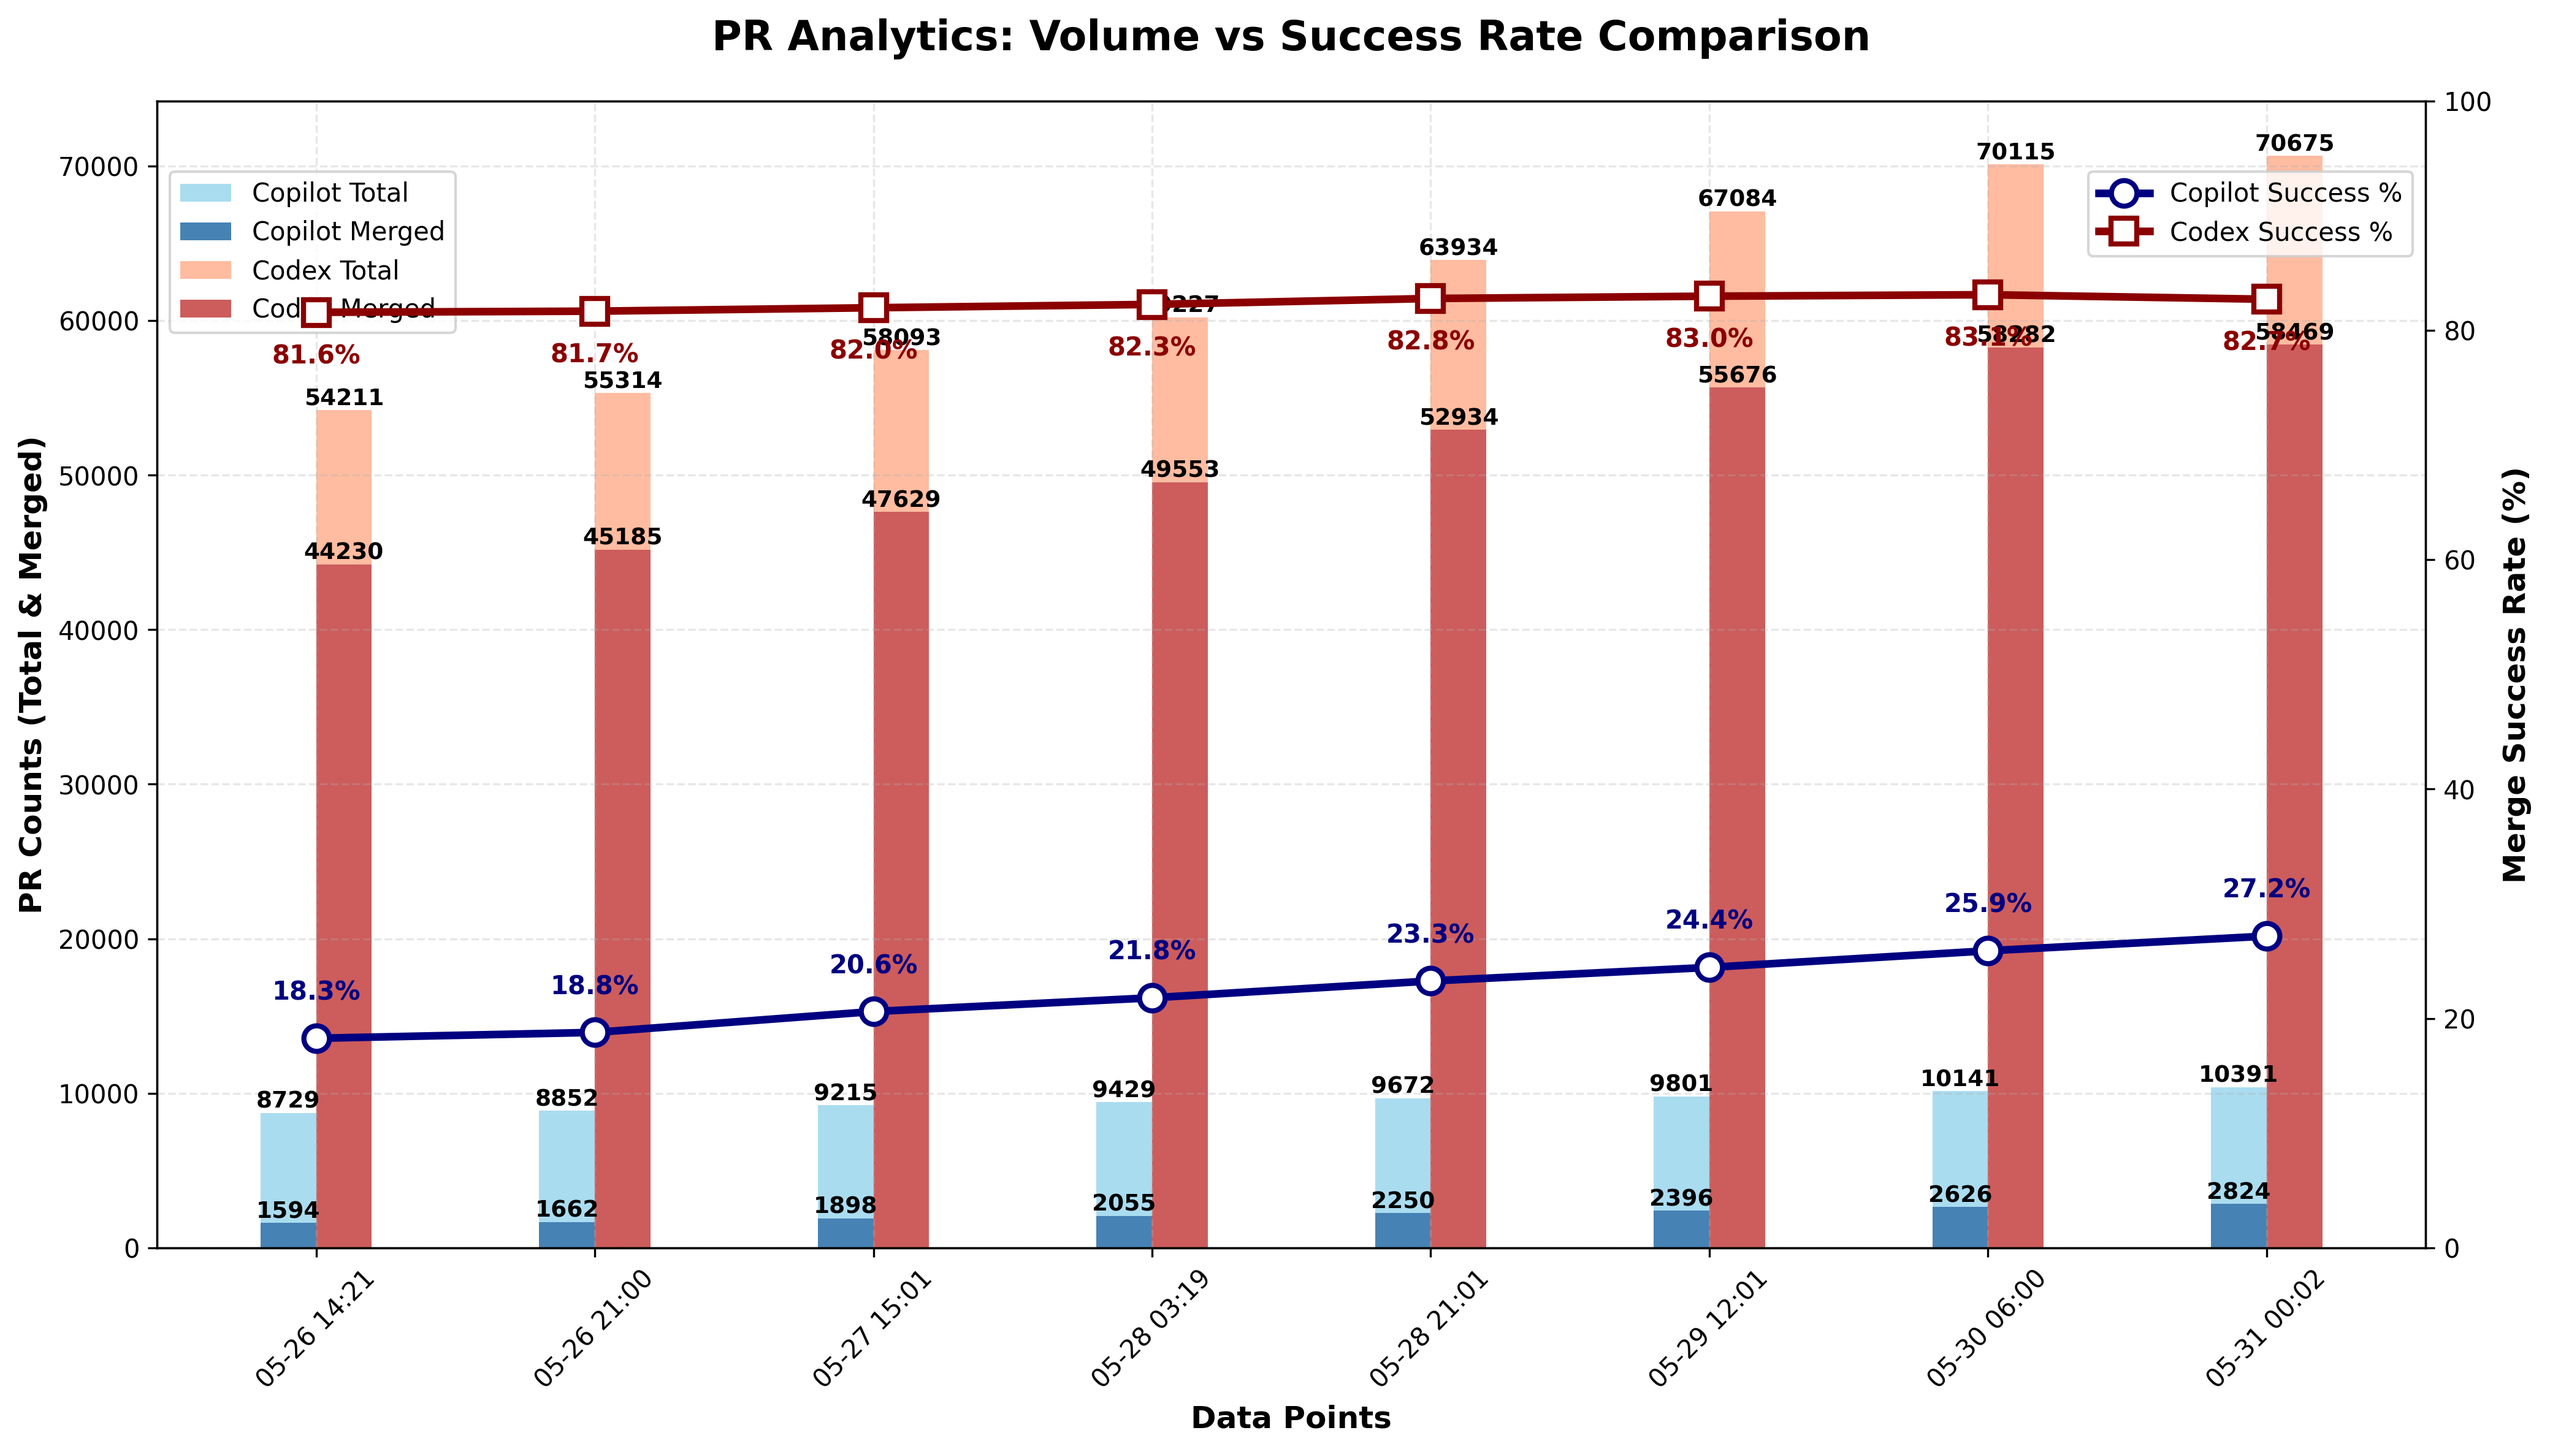
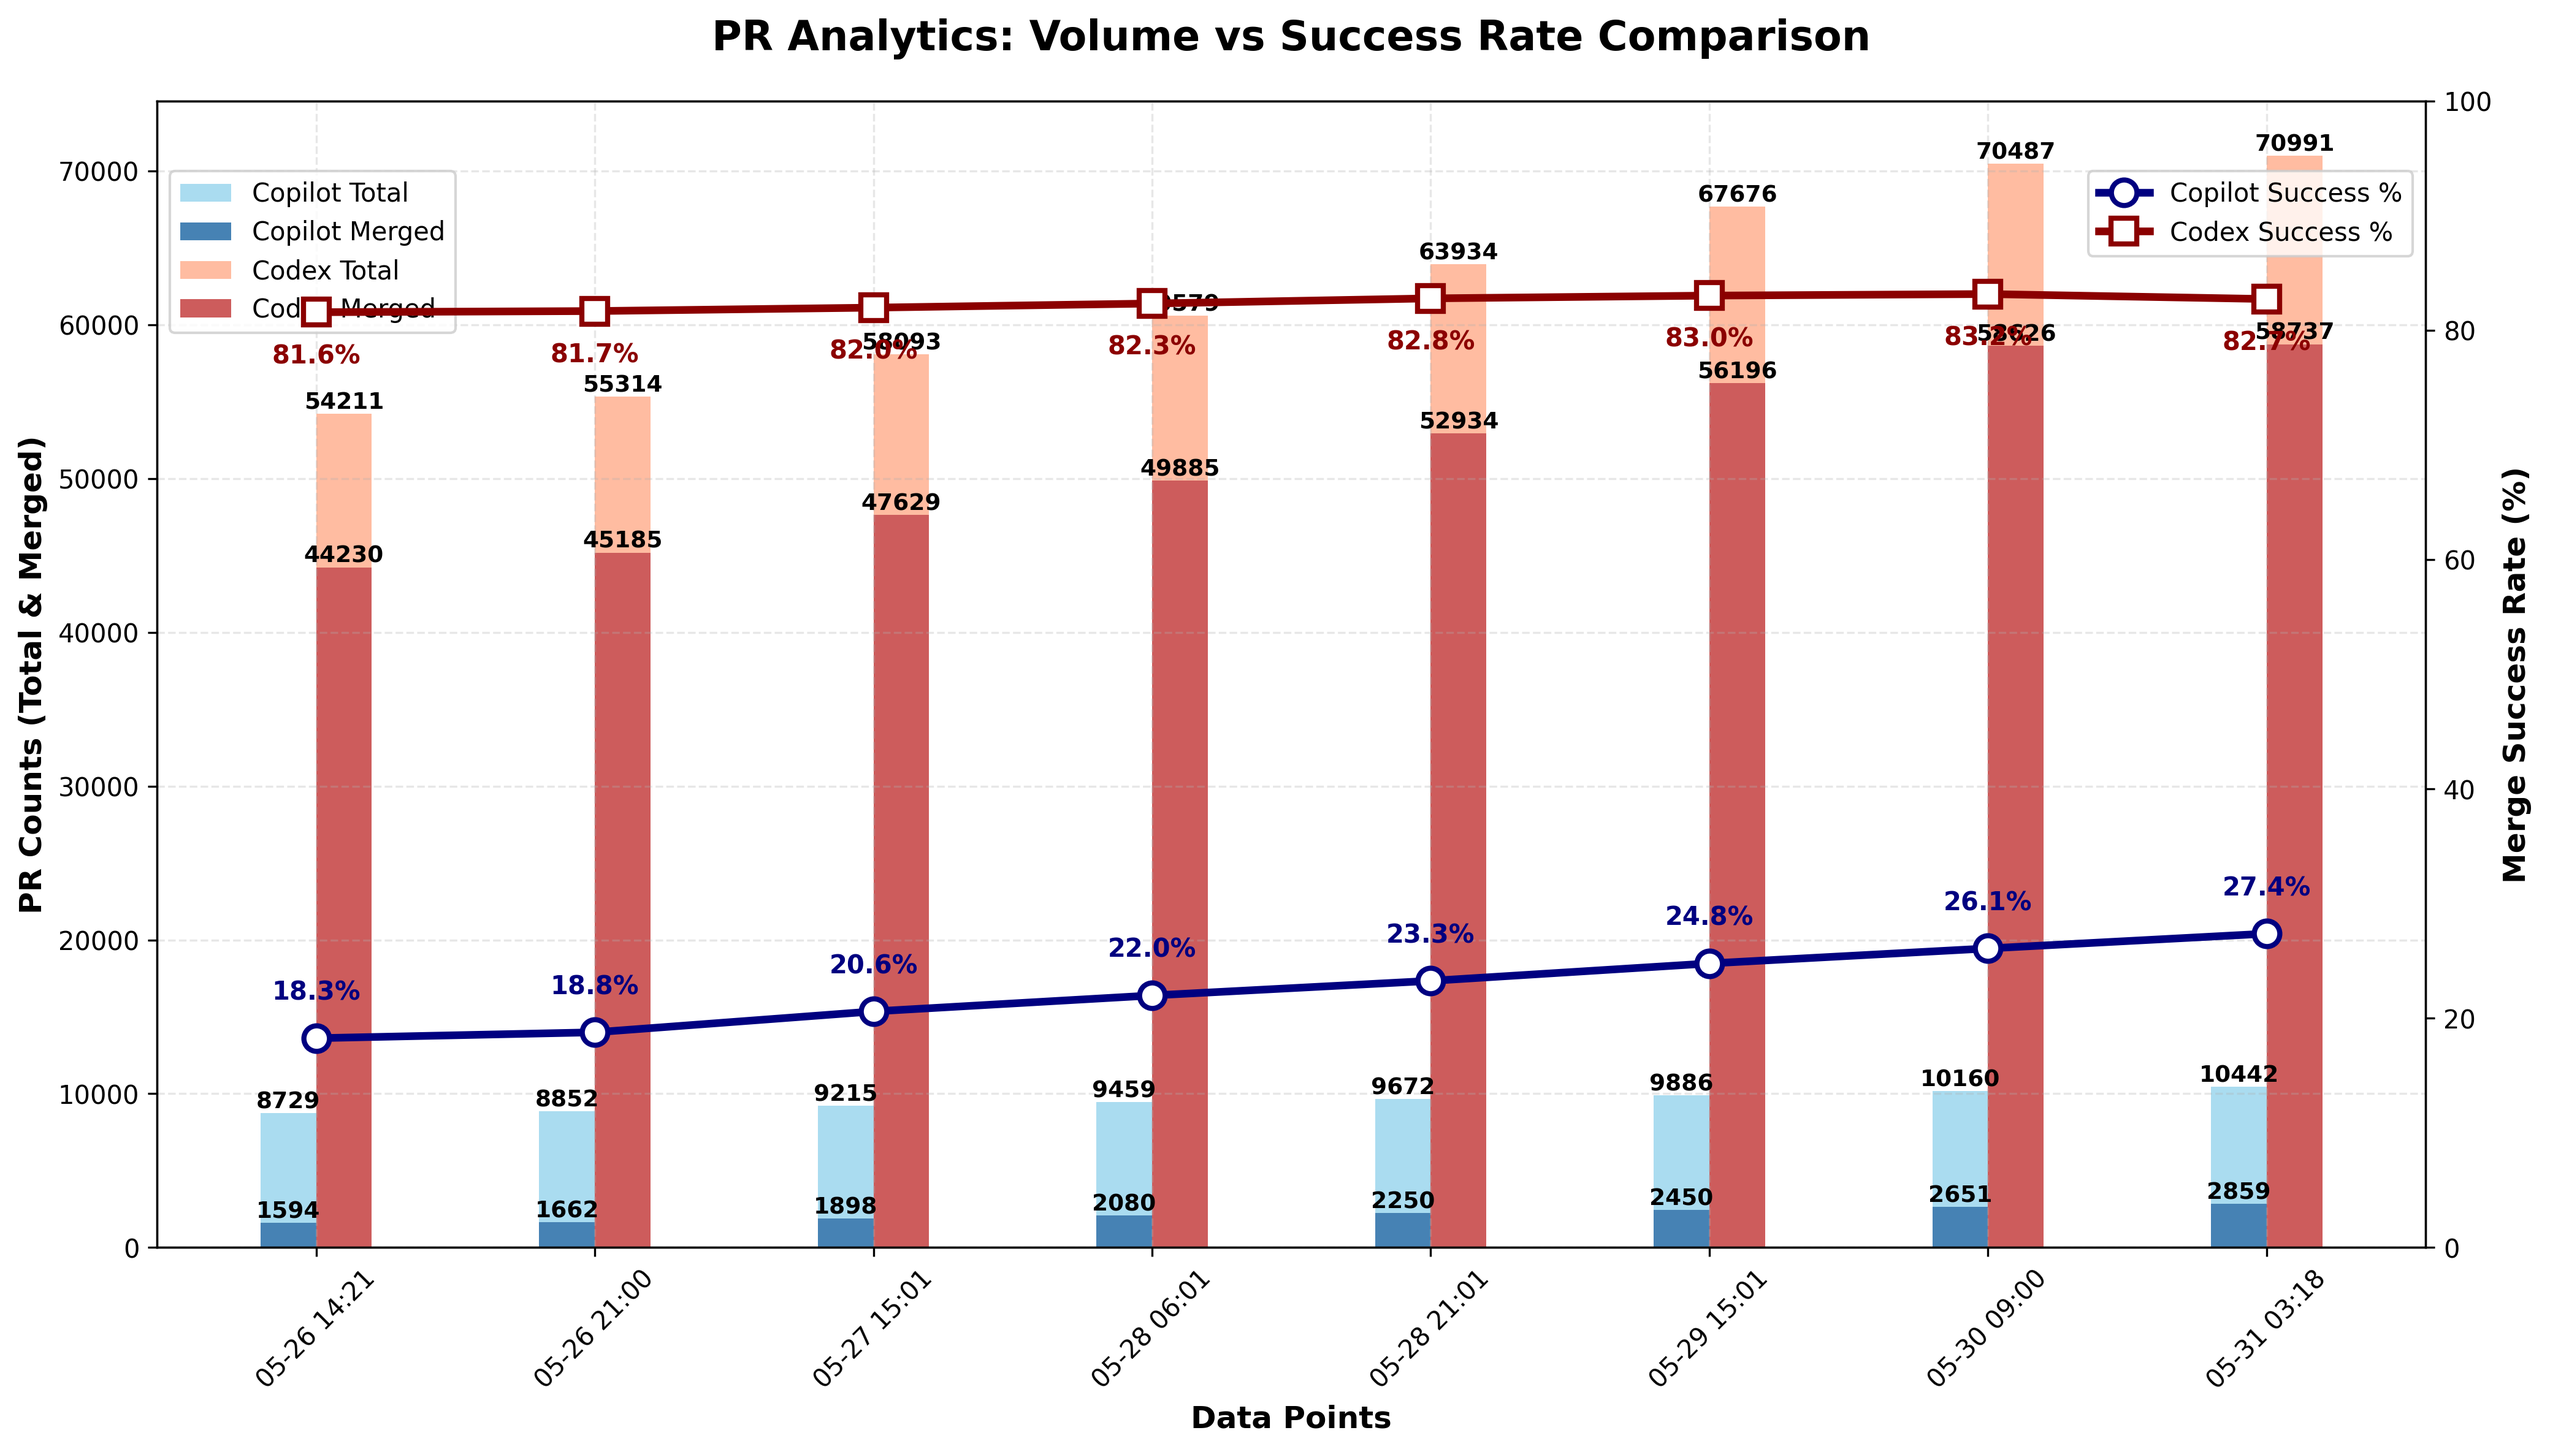
chore: update PR‑approval chart

diff --git a/docs/index.html b/docs/index.html
@@ -44,22 +44,22 @@
                 <tbody>
                     <tr>
                         <td>Copilot</td>
-                        <td>10,391</td>
-                        <td>2,824</td>
-                        <td>27.18%</td>
+                        <td>10,442</td>
+                        <td>2,859</td>
+                        <td>27.38%</td>
                     </tr>
                     <tr>
                         <td>Codex</td>
-                        <td>70,675</td>
-                        <td>58,469</td>
-                        <td>82.73%</td>
+                        <td>70,991</td>
+                        <td>58,737</td>
+                        <td>82.74%</td>
                     </tr>
                 </tbody>
             </table>
         </section>
 
         <footer>
-            <p>Last updated: <span id="last-updated">May 31, 2025 00:02 UTC</span></p>
+            <p>Last updated: <span id="last-updated">May 31, 2025 03:18 UTC</span></p>
             <p><a href="https://github.com/aavetis/ai-pr-watcher">View on GitHub</a></p>
         </footer>
     </div>

diff --git a/README.md b/README.md
@@ -19,5 +19,5 @@ Explore the GitHub search queries used:
 
 | Project | Total PRs | Merged PRs | Merge Rate |
 | ------- | --------- | ---------- | ---------- |
-| Copilot | 10,391 | 2,824 | 27.18% |
-| Codex   | 70,675 | 58,469 | 82.73% |
+| Copilot | 10,442 | 2,859 | 27.38% |
+| Codex   | 70,991 | 58,737 | 82.74% |
